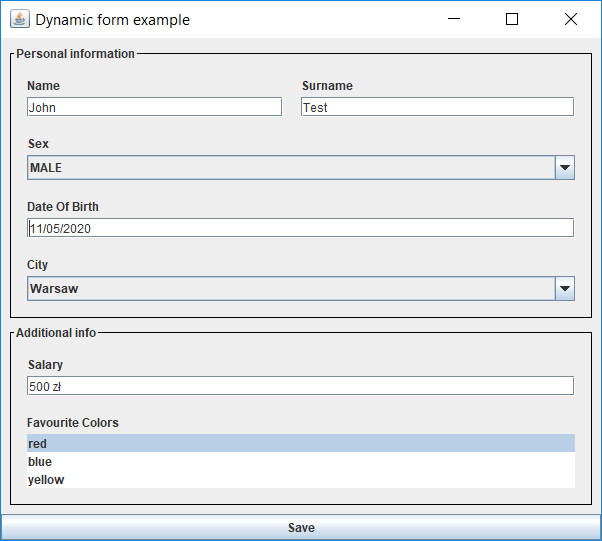
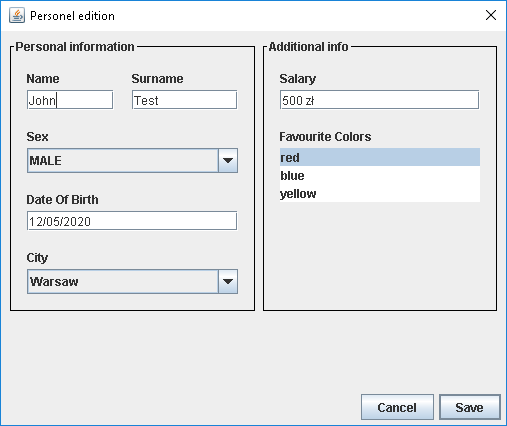
lib dist updates to wiki

diff --git a/src/swing-dynamic-gui-examples/src/main/java/pl/edu/wat/wcy/swingdynamicgui/examples/crud/ExampleCrudTablePanel.java b/src/swing-dynamic-gui-examples/src/main/java/pl/edu/wat/wcy/swingdynamicgui/examples/crud/ExampleCrudTablePanel.java
@@ -3,6 +3,7 @@ package pl.edu.wat.wcy.swingdynamicgui.examples.crud;
 import org.jdesktop.swingx.JXTable;
 import pl.edu.wat.wcy.swingdynamicgui.DynamicContextBuilder;
 import pl.edu.wat.wcy.swingdynamicgui.form.components.DynamicFormDialog;
+import pl.edu.wat.wcy.swingdynamicgui.form.components.formgroup.FieldsetFormGroupRenderer;
 import pl.edu.wat.wcy.swingdynamicgui.form.components.formgroup.WithoutGroupsFormGroupRenderer;
 import pl.edu.wat.wcy.swingdynamicgui.form.models.FormConfig;
 import pl.edu.wat.wcy.swingdynamicgui.table.DynamicFieldTableAdapter;
@@ -171,7 +172,7 @@ public class ExampleCrudTablePanel extends JComponent {
         });
         this.formConfig = DynamicContextBuilder.getFormConfigBasedOnAnnotation(Person.class);
         formConfig.addSelectProvider("city", (object, field) -> cities);
-        formConfig.setFormGroupsRenderer(new WithoutGroupsFormGroupRenderer());
+        formConfig.setFormGroupsRenderer(new FieldsetFormGroupRenderer());
 
     }
 }

diff --git a/src/swing-dynamic-gui/src/main/java/pl/edu/wat/wcy/swingdynamicgui/form/components/DynamicFieldForm.java b/src/swing-dynamic-gui/src/main/java/pl/edu/wat/wcy/swingdynamicgui/form/components/DynamicFieldForm.java
@@ -36,7 +36,7 @@ public class DynamicFieldForm extends JComponent {
 
     private void initComponents() {
         inputComponent = context.getFormField(fieldMetadata);
-        fieldLabel = new JLabel(fieldMetadata.getFieldLabel());
+        fieldLabel = new JLabel(fieldMetadata.getFieldLabel() + context.getFormConfig().getLabelPostfix());
         defaultInputBorder = inputComponent.getBorder();
     }
 

diff --git a/README.md b/README.md
@@ -4,23 +4,29 @@ This is a library providing easy and customisable way of building GUI in Java Sw
 # How to start
 ## Provided examples
 In order to run attached examples please download/clone repository, execute `mvn install` and then just run the chosen example.
+### model package
+This package consists of java POJOs used in forms
+### simple package
+This package includes the simplest examples of using lib. You can check `FormExampleApp` to visualize generated form and `TableExampleApp`
+ to check how to create dynamic table
+#### crud package
+This package provides an example how to can use lib in CRUD like app and how to laod data asynchronously outside the event dispatch thread. Moreover this example use one of the Look And Feels provided by Substance. Check it to get best UI with SWING.
 ## Custom form
 - Create used model and add `@DynamicFormField` annotations to some fields, for example
 ````java
 @DynamicFormConfig(
         labelPosition = LabelPosition.TOP,
         formGroups = {
-                @DynamicFormGroup(name = "Personal information", fields = {"name", "surname", "sex", "dateOfBirth", "city"}),
-                @DynamicFormGroup(name = "Additional info", fields = {"salary", "favouriteColors"}),
+                @DynamicFormGroup(name = "Personal information", size = FieldSize.TWO, fields = {"name", "surname", "sex", "dateOfBirth", "city"}),
+                @DynamicFormGroup(name = "Additional info",size = FieldSize.TWO, fields = {"salary", "favouriteColors"}),
         }
 )
 public class Person {
     @DynamicFormField(fieldSize = FieldSize.TWO)
-    // javax.validation constraint
-    @NotNull
+    @NotEmpty
     private String name;
     @DynamicFormField(fieldSize = FieldSize.TWO)
-    @NotNull
+    @NotEmpty
     private String surname;
     @DynamicFormField
     @NotNull
@@ -29,6 +35,7 @@ public class Person {
     @NotNull
     private Date dateOfBirth;
     @DynamicFormField(displayInTable = false)
+    @NotNull
     private City city;
     @DynamicFormField(fieldInputType = FieldInputType.CURRENCY)
     @Min(0)
@@ -37,6 +44,7 @@ public class Person {
     @DynamicFormField(displayInTable = false,
             fieldInputType = FieldInputType.MULTI_SELECT,
             staticOptionsAsCommaSeparatedString = "red,blue,yellow")
+    @NotNull
     private List<String> favouriteColors;
 
 
@@ -78,16 +86,20 @@ DynamicFormContext formContext = DynamicContextBuilder.getFormContextSync(
                         .build()
                 , formConfig);
 ```
-- Show obtained form in any component. For this example we have used a custom dialog
+- Show obtained form in any component. For this example we have used a custom dialog or you can use provided `DynamicFormDialog` for simplify this process
 ```java
 // show form in UI thread
-SwingUtils.runInEDT(() -> new DynamicFormDialog(formContext));
+SwingUtils.runInEDT(() -> new ExampleFormDialog(formContext));
 ```
 - Get results
 
-![generated form](images/simple-form-1.png)
+| Default SWING LAF  |  Substance LAF |
+|---|---|
+| ![generated form](images/simple-tabbed-form.PNG)  |  ![generated form](images/crud-table-tabs-groups.png) |
+| ![generated form](images/simple-form-fieldset-group-validation.png) |  ![generated form](images/crud-validation.png) |
 
-![generated form](images/simple-form-1-validation.png)
+
+
 
 ## Custom table
 - Create used model and add `@DynamicFormField` annotations to some fields/ Let's suppose that we use the same model as for form generation
@@ -141,7 +153,10 @@ tableModel.loadData(Arrays.asList(
 ```
 - get results
 
-![generated table](images/simple-table-1.png)
+|  SWING LAF | Substance LAF   |
+|---|---|
+| ![generated table](images/simple-table-1.png)  | ![generated table](images/crud-table.png)  |
+
 # Form configuration
 ## Models 
 ### BaseDynamicConfig
@@ -168,7 +183,7 @@ by default *LEFT* is set
 - `DynamicFormGroupRenderer formGroupsRenderer` - form groups renderer component. Form can contains from many groups and this component is resposible for layout them. The lib provides following options:
   - `WithoutGroupsFormGroupRenderer` - don't display form groups like groups only like plain fields
   - `TabsGroupsFormGroupRenderer` - display groups utilizing tabs component
- 
+  - `FieldsetFormGroupRenderer` - display groups as fieldsets
 by default *WithoutGroupsFormGroupRenderer* is used. To implement custom component resposible for rendering groups you need only to implement `DynamicFormGroupRenderer` interface and set it in `FormConfig`. Below there is a code resposible for rendering groups as tabs.
 ``` java
 public class TabsGroupsFormGroupRenderer implements DynamicFormGroupRenderer {
@@ -194,7 +209,7 @@ public class TabsGroupsFormGroupRenderer implements DynamicFormGroupRenderer {
 - `DynamicFormValidator validator` - this service is resposible for validation. You can extend this component if you want to write custom validation logic. Currently this service utilize javax.validation package.
 - `DynamicFormLabelProvider labelProvider` - this service is resposible for providing labels and placeholders for fields. It is useful to overidde it when you have to implement i18n. By default it uses value form annotation if it is not set it use field name with title case conversion
 - `Map<String, SelectOptionProvider> selectProviders` - this is map of services resposible for providing dynamic data to select like components. You use them when you need to load asynchronously data from db or other type of resource
-- `List<FormGroupConfig> formGroups` - user defined form groups. Each group consists of name and fields in it.
+- `List<FormGroupConfig> formGroups` - user defined form groups. Each group consists of name, size and fields in it.
 
 ## Annotations
 ### DynamicFormField
@@ -227,7 +242,32 @@ This annotation is used to provide easy to use config for field both used in for
 - `boolean displayInTable` - if field should be displayed in a table
 - `String tableHeader` - header title for this field, by default field name
 - `int tableFieldOrder` - order of table header for field
+### DynamicFormGroup
+- `String name` - name of group
+- `FieldSize size` - size of the form group
+- `String[] fields` - array of field names used in group
+## Custom validation
+To provide custom validation (when *javax.validation* is not sufficient) you can implement interface `DynamicFormValidator` to write custom validation. It is recommended to extends `DefaultDynamicFormValidator` to write custom validation logic. It provides `ValidationResult validate(Object object)` method, check below example:
+```java
+class AppDefaultDynamicFormValidator extends  DefaultDynamicFormValidator{
+    @Override
+    public ValidationResult validate(Object object) {
+        ValidationResult vr = super.validate(object);
+        if(object instanceof  Person   ){
+            Person p = (Person) object;
+            if(p.getSurname().length() > 30){
+                vr.addMessage("surname", "Surname is too long, it can be max 30 characters length");
+            }
+        }
 
+        return vr;
+    }
+}
+```
+and set it in `FormConfig` 
+```java
+formConfig.setValidator(new AppDefaultDynamicFormValidator());
+```
 # Table configuration
 ## Models 
 ### TableConfig
@@ -239,4 +279,23 @@ It inherits from *BaseDynamicConfig* and consists of the following additional pr
 - `Map<FieldInputType, TableCellRenderer> tableRenderersByFieldType` -  mappings for providing appropriate table renderer for field input type
 - `TableMetadataProvider metadataProvider` - service responsible for providing table config metadata
 - `TableHeaderProvider headerProvider` - service is resposible for providing headers in table for fields. It is useful to override it when you have to implement i18n. By default it uses value form annotation if it is not set it use field name with title case conversion
-
+## Annotations
+### DynamicFormField
+This is the same annotation used to mark fields being visible in form, for tables following properties are considered:
+- `FieldInputType fieldInputType` - this is type of component used to choose corect field in form and renderer for tables. This options are available:
+  - DEFAULT - field component is choosen based on field type
+  - COMBOBOX - *DefaultTableTreeCellRendere* is used as a component
+  - SELECT - *DefaultTableTreeCellRendere* is used as a component with single select option
+  - MULTI_SELECT - *CollectionRenderer* is used as a table cell renderer
+  - CHECKBOX - *DefaultTableTreeCellRendere* is used as a component 
+  - TOGGLE - *DefaultTableTreeCellRendere* is used as a component 
+  - PASSWORD - *PasswordCellRenderer* is used as a table cell renderer
+  - DATE - *FormatRenderer* is used as a table cell renderer
+  - DATE_TIME -  *FormatRenderer* is used as a table cell renderer
+  - TIME -  *FormatRenderer* is used as a table cell renderer
+  - CURRENCY -  *FormatRenderer* is used as a table cell renderer
+  - DOUBLE -  *FormatRenderer* is used as a table cell renderer
+  - INTEGER -  *FormatRenderer* is used as a table cell renderer
+- `boolean displayInTable` - if field should be displayed in a table
+- `String tableHeader` - header title for this field, by default field name
+- `int tableFieldOrder` - order of table header for field
